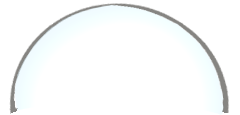
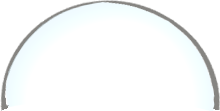
trinkets/ hover

Changed region(s): [[0.0, 0.0, 1.0, 1.0]]

diff --git a/assets/css/normal.css b/assets/css/normal.css
@@ -22,11 +22,16 @@
 /**************************
 * MARK: Custom properties
 **************************/
-
-html {
+html, body {
+  overflow: hidden;
   margin: 0;
   padding: 0;
-  height: 100%;
+  height: 100vh;
+  width: 100vw;
+}
+
+
+html {
   color-scheme: light dark;
   --gradient-color-light: light-dark(#fae586 , #b5dbf0);
   --gradient-color-dark: light-dark(#bcce77, #599bbc );
@@ -51,8 +56,8 @@ h1 {
 body {
   font-family: "Rubik Spraypaint", system-ui;
   display: grid;
-  height: 100vh;
   margin: 0%;
+  padding: 0;
 
 /**************************
 * MARK: Background
@@ -93,6 +98,7 @@ body {
 /**************************
 * MARK: Light-Dark-Styling
 **************************/
+/* Button gemaakt met behulp van de Light/dark & button/states deepdives, Sanne en chatgpt voor debuggen*/
 
   form:nth-of-type(1) {
     padding: 0%;
@@ -112,9 +118,36 @@ body {
 
     transition: 0.2s ease-in;
 
-    &:hover {
+      &:hover:nth-of-type(1) {
       transform: translate(-0.1em, -0.1em);
+      content: url("/images/images-web/Mattias-HOVER.png");
+      width: 8em;
     }
+
+      &:hover:nth-of-type(2) {
+      transform: translate(-0.1em, -0.1em);
+
+    }
+
+    &:hover:nth-of-type(3) {
+      transform: translate(-0.1em, -0.1em);
+      content: url("/images/images-web/Vince-HOVER.png");
+      width: 8em;
+
+    }
+
+    &:has(input:checked):hover:nth-of-type(1) {
+      transform: translate(-0.1em, -0.1em);
+      content: url("/images/images-web/Mattias-ON.png");
+      width: 8em;
+    }
+
+    &:has(input:checked):hover:nth-of-type(3) {
+      transform: translate(-0.1em, -0.1em);
+      content: url("/images/images-web/Vince-ON.png");
+      width: 8em;
+    }
+
 
     &:has(input:checked) {
       filter: drop-shadow(0 0 0.3em lime);
@@ -123,6 +156,10 @@ body {
     &:has(input:focus-visible) {
       filter: drop-shadow(0 0 0.5em deeppink);
     }
+
+    
+
+
 
     input {
       padding: 0;
@@ -185,13 +222,14 @@ header {
   top: 0%;
   margin: 0%;
   padding: 0%;
-  height: 4em;
+  height: 6em;
   
 
   /* border-bottom-left-radius: 15%;
   border-bottom-right-radius: 15%; */
 
   h1 {
+    padding: 1%;
     align-items: center;
     display: flex;
     font-size: 2em;
@@ -199,7 +237,8 @@ header {
 }
 
 footer {
-  position: sticky;
+  position: fixed;
+  bottom: 0; 
 
   nav {
     display: flex;
@@ -210,6 +249,10 @@ footer {
     
   }
 
+
+/**************************
+* MARK: Cookie Button
+**************************/
   /* gebruik van een id toen ik ging debuggen met chatgpt*/
    #cookieButton{
     transition: .2s ease-in;
@@ -227,6 +270,7 @@ footer {
 }
 body.eatCookie #cookieButton img {
     content:url("/images/images-web/Cookie-eaten-Mattias.png") / "acceptedCookie";}
+
 /**************************
 * MARK: Main
 **************************/
@@ -241,7 +285,7 @@ main {
     border: none;
     img {
       width: auto;
-      height: 50em;
+      height: 55rem;
       object-fit: cover;
     }
   }
@@ -252,30 +296,33 @@ main {
     border: none;
     z-index: 50;
     position: relative;
-    left: 44.2rem;
-    bottom: 16.3rem;
+    left: calc(50% - 4.2rem);
+    bottom: calc(50% - 9.9rem);
     transition: transform 1.0s ease-in-out;
 
     @media (width < 40em){
           z-index: 50;
           position: relative;
-          left: 12.6rem;
-          bottom: 16.3rem;
+          left: calc(50% - 4.5.6rem);
+          bottom: calc(50% - 10.1rem);
         }
+      
+    &:hover {
+      filter: drop-shadow(0 0 0.3em white);
+    }
     &:active {
     transform: rotate(300deg);
     }
 
       img {
-        object-fit: cover;
-        width: 5.9rem;
+        width: 7.5rem;
         cursor: pointer; 
    }
   } 
 }
 
 /**************************
-* MARK: Button
+* MARK: Gacha Button
 **************************/
 /* code geholpen door Sanne */
 
@@ -306,12 +353,18 @@ li {
   bottom: calc(10% - 4em);
   opacity:0;
   scale:0;
+  z-index: 100;
 
   button {
+    display: block;
+    border-radius: 50%;
     appearance: none;
     background:none;
     border:none;
+    padding: .5em;
+    cursor: pointer;
   }
+  
 
   &.is-pulled {
     transition: 
@@ -332,14 +385,13 @@ li {
     transform:
     /* veranderen van distance hier*/
     rotate( calc( var(--rotate) * 360deg ) )
-    translateY( calc( var(--base) * 25vmin + var(--distance) * 35.5vmin) )
+    translateY( calc( var(--base) * 25vmin + var(--distance) * 30vmin) )
     rotate( calc( var(--rotate)* -360deg ));
 }
 
   &::before {
     content:"";
     position: absolute;
-    z-index: 10;
     inset: 0 0 50% 0;
     border-radius:50% 50% 1px 1px / 100% 100% 1px 1px;
 
@@ -347,7 +399,7 @@ li {
     background-size: 100% auto;
     background-repeat: no-repeat;
     box-shadow:
-    inset 0 -1px hsl(calc(var(--images) * 360) 100% 25% / .25);
+    inset 0 -1px hsl(calc(var(--images) * 360) 100% 25% / .55);
 
     /* translate:0 .3em; */
 }
@@ -409,7 +461,7 @@ li {
 
   #cookieModal {
     background-color: #1b5273;
-    border: none;
+  
   }
 
 

diff --git a/index.html b/index.html
@@ -81,7 +81,55 @@
           <button>
             <img
               src="./images/images-web/Smiski-TRINKET.png"
-              alt="Capsule Trinket Smiski"
+              alt="Capsule Smiski Trinket"
+            />
+          </button>
+        </li>
+        <li>
+          <button>
+            <img
+              src="./images/images-web/Pochacco-TRINKET.png"
+              alt="Capsule Pochacco Trinket"
+            />
+          </button>
+        </li>
+        <li>
+          <button>
+            <img
+              src="./images/images-web/Sylvanian-TRINKET.png"
+              alt="Capsule Sylvanian Trinket"
+            />
+          </button>
+        </li>
+        <li>
+          <button>
+            <img
+              src="./images/images-web/Lps-TRINKET.png"
+              alt="Capsule Littlest Petshop"
+            />
+          </button>
+        </li>
+        <li>
+          <button>
+            <img
+              src="./images/images-web/Smiski-TRINKET.png"
+              alt="Capsule Gacha Kat"
+            />
+          </button>
+        </li>
+        <li>
+          <button>
+            <img
+              src="./images/images-web/Smiski-TRINKET.png"
+              alt="Capsule Gacha Kat"
+            />
+          </button>
+        </li>
+        <li>
+          <button>
+            <img
+              src="./images/images-web/Smiski-TRINKET.png"
+              alt="Capsule Gacha Kat"
             />
           </button>
         </li>
@@ -147,7 +195,18 @@
 
         <dialog id="cookieModal">
           <form method="dialog">
-            <p lang="en">This site uses</p>
+            <p lang="en">
+              This site is hosted statically with Github pages. Github may
+              collect User Personal Information (such as IP adressses) to comply
+              with legal obligations, and to mantain the service and the
+              integrity of this website and the service. We do not store or
+              collect any of the user's data related to the usage of this
+              website.
+              <br />
+              The website is part of a digital webring of with other students
+              projects. The owner of this digital webring does not collect or
+              analyze personal data.
+            </p>
             <button value="accept" onclick="acceptCookie()">Allow</button>
             <button value="deny" onclick="denyCookie()">Deny</button>
           </form>

diff --git a/CODE/spinvis.css b/CODE/spinvis.css
@@ -27,31 +27,45 @@ body {
 }
 
 main {
-  position: relative;
+  width: 70em;
+  position: absolute;
+  padding: 5%;
   display: grid;
-  font-size: clamp(2vw, 3vw, 2vw);
-  overflow-y: visible;  
-}
+  grid-template-columns: 33% 33% 33%;
+  grid-template-rows: 100px 100px 100px;
+  font-size: clamp(1vw, 2vw, 1vw);
+
 
 .Intro {
-  transform: skew(-20deg) translate(-1.5em);
-  text-align: right;
-  font-size: 5vw;
-  line-height: 2em;
-}
+  display: grid;
+  gap: 1.5em;
+  padding: 20%;
+  font-size: 2vw;
+ 
+  li {
+    font-size: 1.5vw;
+    grid-column-start:1;
+    grid-column-end: 4;
+    list-style-type: none;
+  }
+   
+  li:nth-of-type(2){
+    font-size: 1.5vw;
+    left: 100px;
+  }
 
-.Verse1 {
-  em {
-    text-shadow: grey 2px 5px;
+
+  li:nth-of-type(3){
   }
 }
+
 
 .Verse2 {
 }
 
 .Verse3 {
   ul {
-    list-style-type: none;
+    list-style-type: none;}
 
     li:nth-of-type(3) {
       letter-spacing: 0.2rem;
@@ -70,3 +84,4 @@ main {
   font-size: 5vw;
   line-height: 2em;
 }
+

diff --git a/CODE/spinvis.html b/CODE/spinvis.html
@@ -14,12 +14,11 @@
     <!--<header>Voor ik vergeet Spinvis</header> -->
     <main>
       <article>
-      <section class="Intro">
+      <ul class="Intro">
         <p>
-          Papapa, papapa, papapa Pa, <br>papapa, papapa, papapa Pa Papapa, papapa,
-          papapa Pa,<br> papapa, papapa, papapa Pa
-        </p>
-      </section>
+          <li>Papapa, papapa, papapa</li> <li>Pa, papapa, papapa, papapa Pa Papapa, papapa,
+          papapa</li> Pa, papapa, papapa, papapa</li> <li> Pa </li>
+
 
       <section class="Verse1">
         <h1>Voor ik vergeet</h1>
